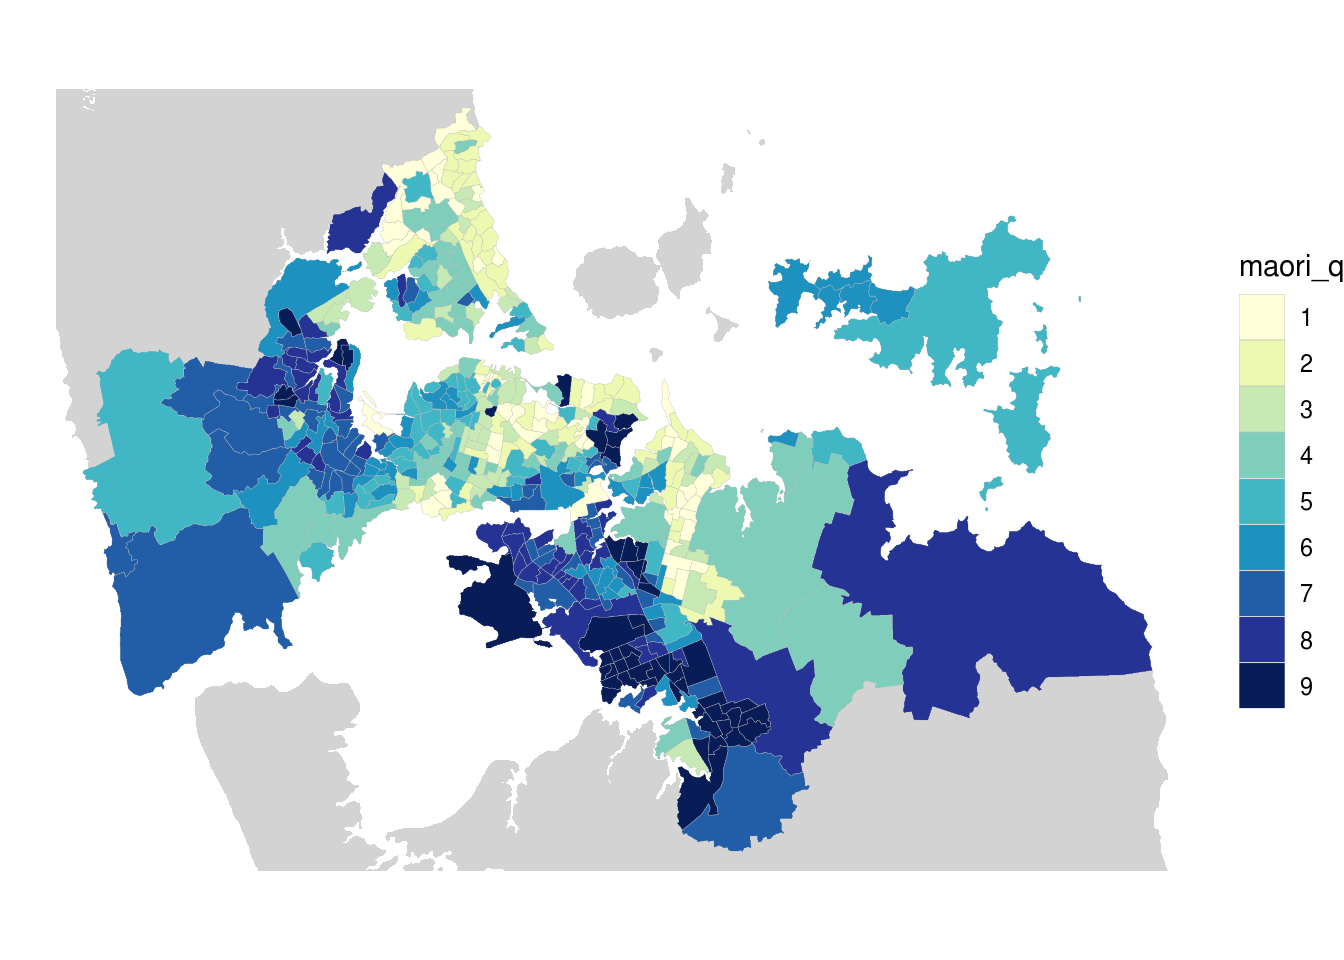
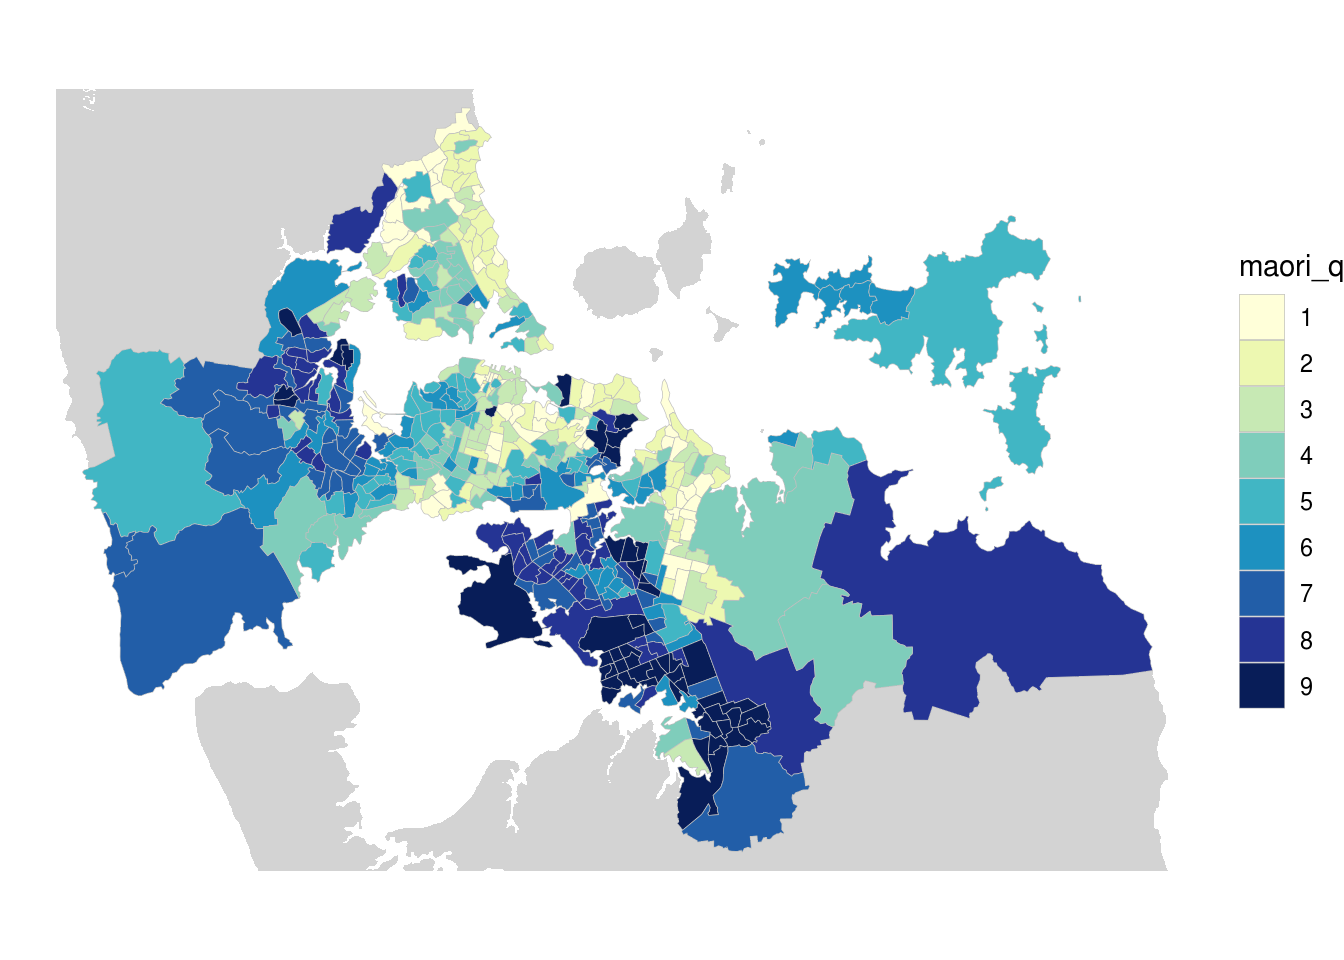
corrected lwd in ggplot 13

diff --git a/docs/maps/13-choropleth.html b/docs/maps/13-choropleth.html
@@ -362,7 +362,7 @@ pre > code.sourceCode > span > a:first-child::before { text-decoration: underlin
 <h3 class="anchored" data-anchor-id="ggplot2"><code>ggplot2</code></h3>
 <p>Here, we have to do all the classification work and use the <code>scale_fill_fermenter()</code> function to get the same effect. We use <code>classInt::classIntervals()</code> to make breaks. Even then we have to make up the legend labels manually if we want to show ranges, not just the break values. Much as I appreciate the uh… quirkiness of <em>R</em>’s <code>paste()</code> function, I don’t relish explaining this to an introductory class!</p>
 <p>An additional challenge caused by placing the legend below the map area is that we have to extend the plot area to accommodate it, using <code>coord_sf(...ylim=...)</code>, but that’s a distraction, it is the generation of breaks, and legend labels that is the real annoyance (at least to me).</p>
-<div class="cell" data-hash="13-choropleth_cache/html/unnamed-chunk-4_d78803f8c0902c8cb69afe1acee9b87d">
+<div class="cell" data-hash="13-choropleth_cache/html/unnamed-chunk-4_11a1e15f3bca7c56d6d1940789d01a47">
 <div class="sourceCode cell-code" id="cb5"><pre class="sourceCode r code-with-copy"><code class="sourceCode r"><span id="cb5-1"><a href="#cb5-1" aria-hidden="true" tabindex="-1"></a><span class="fu">library</span>(classInt)</span>
 <span id="cb5-2"><a href="#cb5-2" aria-hidden="true" tabindex="-1"></a></span>
 <span id="cb5-3"><a href="#cb5-3" aria-hidden="true" tabindex="-1"></a>class_breaks <span class="ot">&lt;-</span> <span class="fu">classIntervals</span>(ak<span class="sc">$</span>maori, <span class="dv">9</span>, <span class="st">"quantile"</span>, <span class="at">digits =</span> <span class="dv">1</span>)</span>
@@ -386,7 +386,7 @@ pre > code.sourceCode > span > a:first-child::before { text-decoration: underlin
 <span id="cb5-21"><a href="#cb5-21" aria-hidden="true" tabindex="-1"></a><span class="fu">ggplot</span>(nz <span class="sc">%&gt;%</span> <span class="fu">st_intersection</span>(clip)) <span class="sc">+</span> </span>
 <span id="cb5-22"><a href="#cb5-22" aria-hidden="true" tabindex="-1"></a>  <span class="fu">geom_sf</span>(<span class="at">fill =</span> <span class="st">"lightgray"</span>, <span class="at">linewidth =</span> <span class="dv">0</span>) <span class="sc">+</span></span>
 <span id="cb5-23"><a href="#cb5-23" aria-hidden="true" tabindex="-1"></a>  <span class="fu">geom_sf</span>(<span class="at">data =</span> ak, <span class="fu">aes</span>(<span class="at">fill =</span> maori), <span class="at">colour =</span> <span class="st">"grey"</span>, </span>
-<span id="cb5-24"><a href="#cb5-24" aria-hidden="true" tabindex="-1"></a>          <span class="at">linewidth =</span> <span class="fl">0.2</span> <span class="sc">*</span> <span class="fl">25.4</span> <span class="sc">/</span> <span class="fl">72.27</span>) <span class="sc">+</span></span>
+<span id="cb5-24"><a href="#cb5-24" aria-hidden="true" tabindex="-1"></a>          <span class="at">linewidth =</span> <span class="fl">0.35</span> <span class="sc">*</span> <span class="fl">25.4</span> <span class="sc">/</span> <span class="fl">72.27</span>) <span class="sc">+</span></span>
 <span id="cb5-25"><a href="#cb5-25" aria-hidden="true" tabindex="-1"></a>  <span class="fu">scale_fill_fermenter</span>(</span>
 <span id="cb5-26"><a href="#cb5-26" aria-hidden="true" tabindex="-1"></a>    <span class="at">palette =</span> <span class="st">"YlGnBu"</span>,</span>
 <span id="cb5-27"><a href="#cb5-27" aria-hidden="true" tabindex="-1"></a>    <span class="at">direction =</span> <span class="dv">1</span>,</span>
@@ -409,11 +409,11 @@ pre > code.sourceCode > span > a:first-child::before { text-decoration: underlin
 </div>
 </div>
 <p>The underlying issue here is that <code>ggplot2</code> really doesn’t want to make classed choropleths. The data are ‘continuous’ valued and <code>ggplot2</code>’s strong preference is to associate a continuous variable with a continuous visual variable. You can see this if you let it do its own thing:</p>
-<div class="cell" data-hash="13-choropleth_cache/html/unnamed-chunk-5_14f30e7edfe5aad012afd1ce3deb2dbf">
+<div class="cell" data-hash="13-choropleth_cache/html/unnamed-chunk-5_a11d69eeb018286ac640bb0d8dcbb40d">
 <div class="sourceCode cell-code" id="cb6"><pre class="sourceCode r code-with-copy"><code class="sourceCode r"><span id="cb6-1"><a href="#cb6-1" aria-hidden="true" tabindex="-1"></a><span class="fu">ggplot</span>(nz <span class="sc">%&gt;%</span> <span class="fu">st_intersection</span>(clip)) <span class="sc">+</span> </span>
 <span id="cb6-2"><a href="#cb6-2" aria-hidden="true" tabindex="-1"></a>  <span class="fu">geom_sf</span>(<span class="at">fill =</span> <span class="st">"lightgray"</span>, <span class="at">linewidth =</span> <span class="dv">0</span>) <span class="sc">+</span></span>
 <span id="cb6-3"><a href="#cb6-3" aria-hidden="true" tabindex="-1"></a>  <span class="fu">geom_sf</span>(<span class="at">data =</span> ak, <span class="fu">aes</span>(<span class="at">fill =</span> maori), <span class="at">colour =</span> <span class="st">"grey"</span>, </span>
-<span id="cb6-4"><a href="#cb6-4" aria-hidden="true" tabindex="-1"></a>          <span class="at">linewidth =</span> <span class="fl">0.2</span> <span class="sc">*</span> <span class="fl">25.4</span> <span class="sc">/</span> <span class="fl">72.27</span>) <span class="sc">+</span></span>
+<span id="cb6-4"><a href="#cb6-4" aria-hidden="true" tabindex="-1"></a>          <span class="at">linewidth =</span> <span class="fl">0.35</span> <span class="sc">*</span> <span class="fl">25.4</span> <span class="sc">/</span> <span class="fl">72.27</span>) <span class="sc">+</span></span>
 <span id="cb6-5"><a href="#cb6-5" aria-hidden="true" tabindex="-1"></a>  <span class="fu">scale_fill_distiller</span>(<span class="at">palette =</span> <span class="st">"YlGnBu"</span>, <span class="at">direction =</span> <span class="dv">1</span>) <span class="sc">+</span></span>
 <span id="cb6-6"><a href="#cb6-6" aria-hidden="true" tabindex="-1"></a>  <span class="fu">theme_void</span>()</span></code><button title="Copy to Clipboard" class="code-copy-button"><i class="bi"></i></button></pre></div>
 <div class="cell-output-display">
@@ -432,14 +432,14 @@ pre > code.sourceCode > span > a:first-child::before { text-decoration: underlin
 <p>It also doesn’t help at all for other classification schemes. It also prioritises making buckets equal-sized over putting cases in the right bucket, so that areas with the same value might end up in different buckets if they happen to sit on a class interval boundary!</p>
 <p>So… not really a fix at all.</p>
 <p>I haven’t bothered with cleaning up the legend here, which also shows how this is only a very partial workaround. Worth knowing about, but perhaps not as useful at it first appears.</p>
-<div class="cell" data-hash="13-choropleth_cache/html/unnamed-chunk-6_8a11bc5d8eaec45c20c3e896086fde93">
+<div class="cell" data-hash="13-choropleth_cache/html/unnamed-chunk-6_a797da0b1cd23324587761c3e3700a5a">
 <div class="sourceCode cell-code" id="cb7"><pre class="sourceCode r code-with-copy"><code class="sourceCode r"><span id="cb7-1"><a href="#cb7-1" aria-hidden="true" tabindex="-1"></a>ak <span class="ot">&lt;-</span> ak <span class="sc">%&gt;%</span></span>
 <span id="cb7-2"><a href="#cb7-2" aria-hidden="true" tabindex="-1"></a>  <span class="fu">mutate</span>(<span class="at">maori_q =</span> <span class="fu">as.factor</span>(<span class="fu">ntile</span>(maori, <span class="dv">9</span>)))</span>
 <span id="cb7-3"><a href="#cb7-3" aria-hidden="true" tabindex="-1"></a></span>
 <span id="cb7-4"><a href="#cb7-4" aria-hidden="true" tabindex="-1"></a><span class="fu">ggplot</span>(nz <span class="sc">%&gt;%</span> <span class="fu">st_intersection</span>(clip)) <span class="sc">+</span> </span>
 <span id="cb7-5"><a href="#cb7-5" aria-hidden="true" tabindex="-1"></a>  <span class="fu">geom_sf</span>(<span class="at">fill =</span> <span class="st">"lightgray"</span>, <span class="at">linewidth =</span> <span class="dv">0</span>) <span class="sc">+</span></span>
 <span id="cb7-6"><a href="#cb7-6" aria-hidden="true" tabindex="-1"></a>  <span class="fu">geom_sf</span>(<span class="at">data =</span> ak, <span class="fu">aes</span>(<span class="at">fill =</span> maori_q), <span class="at">colour =</span> <span class="st">"grey"</span>, </span>
-<span id="cb7-7"><a href="#cb7-7" aria-hidden="true" tabindex="-1"></a>          <span class="at">linewidth =</span> <span class="fl">0.2</span> <span class="sc">*</span> <span class="fl">25.4</span> <span class="sc">/</span> <span class="fl">72.27</span>) <span class="sc">+</span></span>
+<span id="cb7-7"><a href="#cb7-7" aria-hidden="true" tabindex="-1"></a>          <span class="at">linewidth =</span> <span class="fl">0.35</span> <span class="sc">*</span> <span class="fl">25.4</span> <span class="sc">/</span> <span class="fl">72.27</span>) <span class="sc">+</span></span>
 <span id="cb7-8"><a href="#cb7-8" aria-hidden="true" tabindex="-1"></a>  <span class="fu">scale_fill_brewer</span>(<span class="at">palette =</span> <span class="st">"YlGnBu"</span>) <span class="sc">+</span></span>
 <span id="cb7-9"><a href="#cb7-9" aria-hidden="true" tabindex="-1"></a>  <span class="fu">theme_void</span>()</span></code><button title="Copy to Clipboard" class="code-copy-button"><i class="bi"></i></button></pre></div>
 <div class="cell-output-display">
@@ -702,7 +702,7 @@ window.document.addEventListener("DOMContentLoaded", function (event) {
   </div>
 </nav>
 </div> <!-- /content -->
-<script>var lightboxQuarto = GLightbox({"descPosition":"bottom","closeEffect":"zoom","openEffect":"zoom","selector":".lightbox","loop":true});</script>
+<script>var lightboxQuarto = GLightbox({"descPosition":"bottom","closeEffect":"zoom","openEffect":"zoom","loop":true,"selector":".lightbox"});</script>
 
 
 
